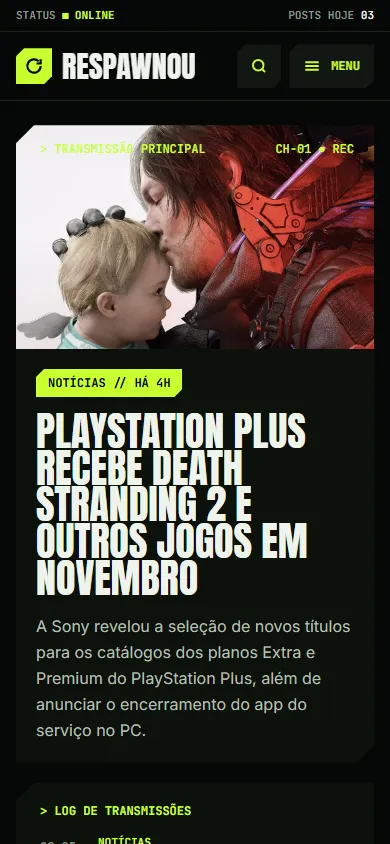
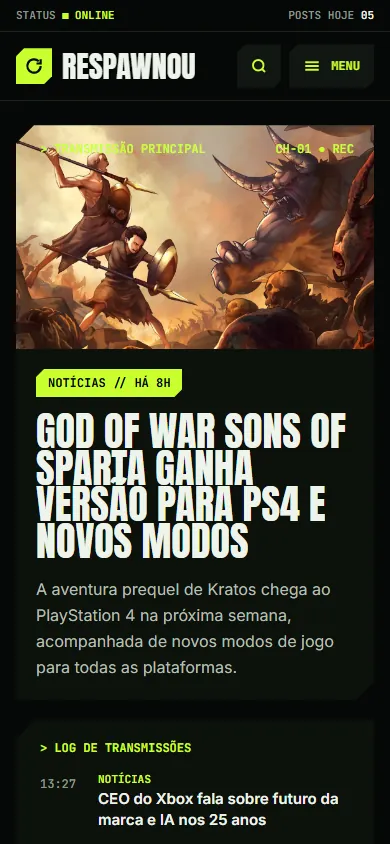
README: capturas refeitas da producao + Arcade e calendario; Bing Webmaster cadastrado

diff --git a/docs/README.md b/docs/README.md
@@ -50,9 +50,10 @@ Legenda: ✅ feito · 🔄 em andamento · ⏳ próximo · 💤 depois
 | 4 | AdSense preparado: `ADSENSE_CLIENT` liga script + Modo de Consentimento v2 + `ads.txt` + banner (adsense.md) | ✅ |
 | 4 | Políticas de privacidade, cookies e termos citando o AdSense | ✅ |
 | — | README de apresentação (todos os direitos reservados, LICENSE própria, capturas em docs/screenshots). Sem "projeto pessoal", sem estrutura de código nem instruções de execução | ✅ |
-| — | Refazer as capturas do README (docs/screenshots/*.webp) quando o site tiver mais conteúdo (editorias além de Notícias, lançamentos) | 💤 |
+| — | Capturas do README refeitas da produção (home, matéria, celular) + Arcade e calendário (2026-11-14); as do painel seguem com dados de teste | ✅ |
 | 4 | Google Search Console: domínio verificado por TXT, sitemap enviado, teste ao vivo OK ("disponível para o Google") e indexação solicitada (2026-11-13) | ✅ |
-| 4 | Acompanhar a indexação no Search Console (Páginas / Sitemaps) e cadastrar no Bing Webmaster Tools (importa do Search Console) | ⏳ |
+| 4 | Bing Webmaster Tools importado do Search Console (2026-11-14) | ✅ |
+| 4 | Acompanhar a indexação no Search Console e no Bing (Páginas / Sitemaps) | ⏳ |
 | 4 | Pedido do AdSense (ver checklist em adsense.md) | 💤 |
 | 4 | Cadastrar `ADSENSE_CLIENT` no hPanel ao se inscrever no AdSense | 💤 dono |
 | 4 | Ao aprovar o AdSense: e-mail para partner@igdb.com (parceria comercial do IGDB; Claude redige, dono envia) — ver adsense.md | 💤 dono |

diff --git a/README.md b/README.md
@@ -55,6 +55,10 @@ automação, SEO e deploy — e está em produção.
 |---|---|
 | ![Página de matéria](docs/screenshots/materia.webp) | ![Home no celular](docs/screenshots/celular.webp) |
 
+| Arcade | Calendário de lançamentos |
+|---|---|
+| ![Arcade com os jogos próprios](docs/screenshots/arcade.webp) | ![Calendário de lançamentos](docs/screenshots/lancamentos.webp) |
+
 | Painel administrativo | Editor de matéria |
 |---|---|
 | ![Painel do admin](docs/screenshots/admin-painel.webp) | ![Editor de matéria](docs/screenshots/admin-editar.webp) |
